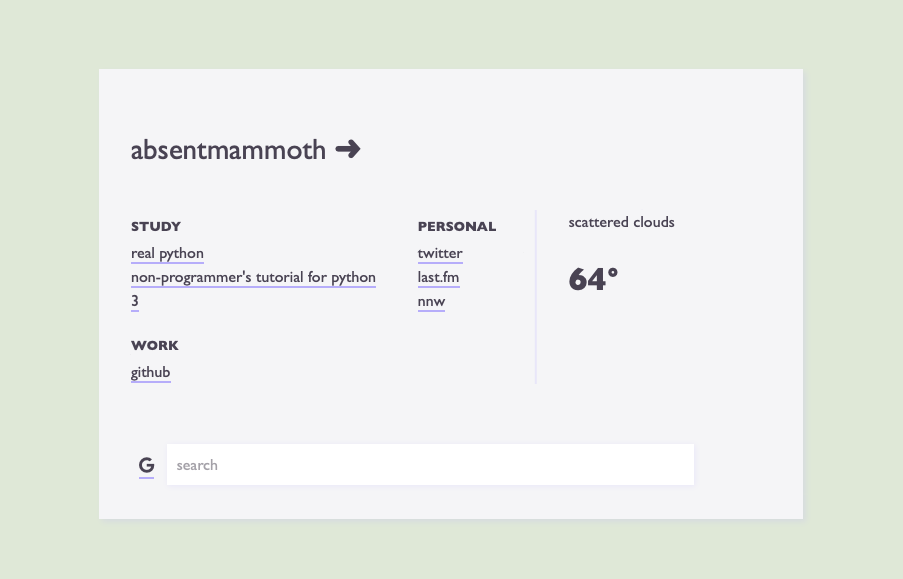
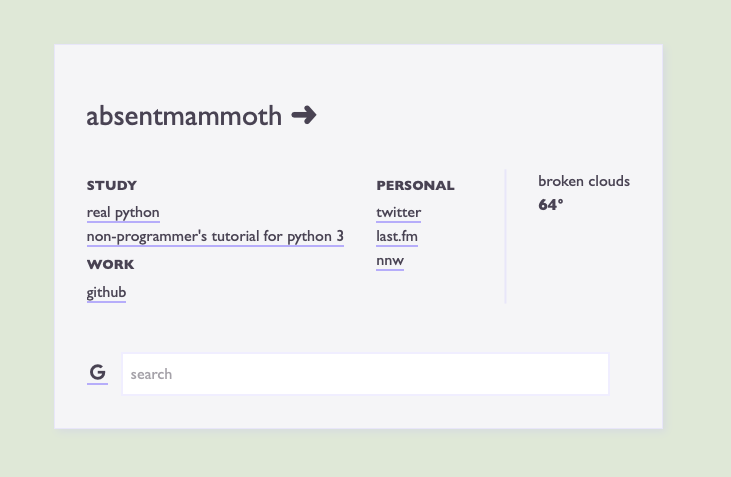
updated screenshot

Changed region(s): [[0.0602, 0.0881, 0.933, 0.9099], [0.632, 0.4403, 0.6922, 0.499]]

diff --git a/css/style.css b/css/style.css
@@ -1,67 +1,68 @@
-html {
+* {
   line-height: 1.5;
   -webkit-box-sizing: border-box;
   box-sizing: border-box;
   overflow-x: hidden;
   margin: 0;
   padding: 0;
+  font-size: 16px;
 }
 
 :root {
-  font-size: 16px;
   --black-text: hsl(264.7, 10.1%, 33.1%);
   --links: hsl(247, 90%, 85%);
-  --border-color: hsla(247, 100%, 85%, .2);
-  --forms: hsla(264.7, 10.1%, 33.1%, .5);
+  --border-color: hsla(247, 100%, 85%, 0.2);
+  --forms: hsla(264.7, 10.1%, 33.1%, 0.5);
 }
 
 body {
-  background-color: hsla(90.6, 27.4%, 64.9%, .3);
+  background-color: hsla(90.6, 27.4%, 64.9%, 0.3);
   color: var(--black-text);
-  font-family: 'iA Writer Duospace', 'Gill Sans';
-  height: 100%;
-  width: 100%;
+  font-family: 'Gill Sans';
+  max-width: 100%;
+  max-height: 100%;
+  display: grid;
 }
 
 .container {
-  display: grid;
-  grid-template-columns: 12fr;
-  grid-gap: 1.2rem;
-  width: 50vw;
   margin-left: auto;
   margin-right: auto;
-  margin-top: 15vh;
-  box-shadow: 3px 3px 6px var(--border-color);
-  padding: .1rem 2rem 2rem 2rem;
-  background-color: hsla(247, 99%, 99%, .8);
+  display: grid;
+  grid-gap: 1rem;
+  max-width: 100vw;
+  margin-top: 28vh;
+  margin-bottom: 20px;
+  border: 0.1rem solid var(--border-color);
+  box-shadow: 0.2rem 0.2rem 0.5rem var(--border-color);
+  padding: 0.1rem 2rem 2rem 2rem;
+  background-color: hsla(247, 99%, 99%, 0.8);
 }
 
-
 header {
-  grid-column: 1 / 11;
+  grid-column: 1 / 20;
   grid-row: 4;
   font-size: 1.8rem;
 }
 
 .left-side {
-  grid-column: 1 / 2;
+  grid-column: 1 / 7;
   grid-row: 6;
 }
 
 .left-middle-side {
-  grid-column: 3 / 4;
+  grid-column: 8 / 15;
   grid-row: 6;
 }
 
 .right-side {
-  grid-column: 5 / 6;
+  grid-column: 16/ 20;
   grid-row: 6;
   border-left: solid 2px var(--border-color);
   padding-left: 2rem;
 }
 
 footer {
-  grid-column: 1 / 7;
+  grid-column: 1 / 20;
   grid-row: 9;
 }
 
@@ -98,9 +99,9 @@ ul {
 
 i {
   font-size: 1rem;
+  padding: 0.2rem;
   color: var(--black-text);
   border-bottom: 2px solid var(--links);
-  padding-bottom: .3rem;
 }
 
 i:hover,
@@ -110,7 +111,7 @@ i:focus {
 }
 
 .formsearch::placeholder {
-  font-family: "iA Writer Duospace", "Gill Sans";
+  font-family: 'Gill Sans';
   font-size: 1rem;
   color: var(--forms);
 }
@@ -118,19 +119,19 @@ i:focus {
 .formsearch:focus {
   outline: none;
 }
-
+#googleValue {
+  border: 2px solid var(--border-color);
+}
 .formsearch {
-  font-size: 1.1rem;
-  padding: 10px;
+  font-size: 1rem;
+  padding: 0.5rem;
   width: 90%;
-  box-shadow: 1px 1px 6px var(--border-color);
-  border: 0;
-  
 }
 
 .searchbar button {
-  position: relative;
   border: none;
   background: none;
   cursor: pointer;
+  vertical-align: middle;
+  padding-right: 0.5rem;
 }

diff --git a/index.html b/index.html
@@ -15,7 +15,8 @@
         <div class="left-side">
             <h2 class="section">study</h2>
             <li><a href="https://www.realpython.com">real python</a></li>
-            <li><a href="https://en.wikibooks.org/wiki/Non-Programmer%27s_Tutorial_for_Python_3">non-programmer's tutorial
+            <li><a href="https://en.wikibooks.org/wiki/Non-Programmer%27s_Tutorial_for_Python_3">non-programmer's
+                    tutorial
                     for python 3</a></li>
             <li><a href=""> </a></li>
             <li><a href=""> </a></li>
